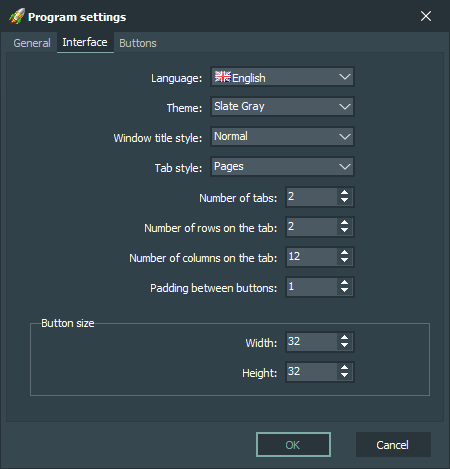
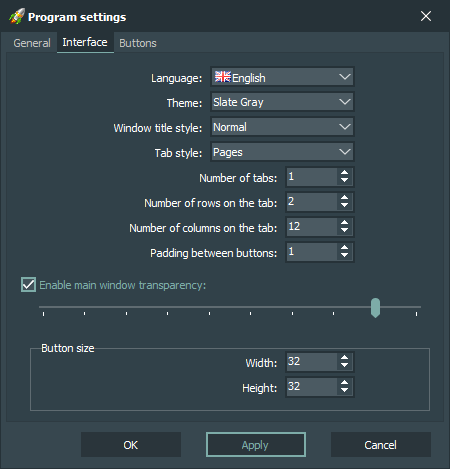
documentation updated

diff --git a/docs/en/doc_settingstab_interface.html b/docs/en/doc_settingstab_interface.html
@@ -47,6 +47,10 @@
         Sets the amount of padding between buttons on a tab.<br /><br />
       </li>
       <li>
+        <strong>Enable main window transparency</strong><br />
+        Enables and sets the transparency level of the main window.<br /><br />
+      </li>
+      <li>
         <strong>Button size</strong><br />
         Button sizes on a tab.<br /><br />
         <ul>
